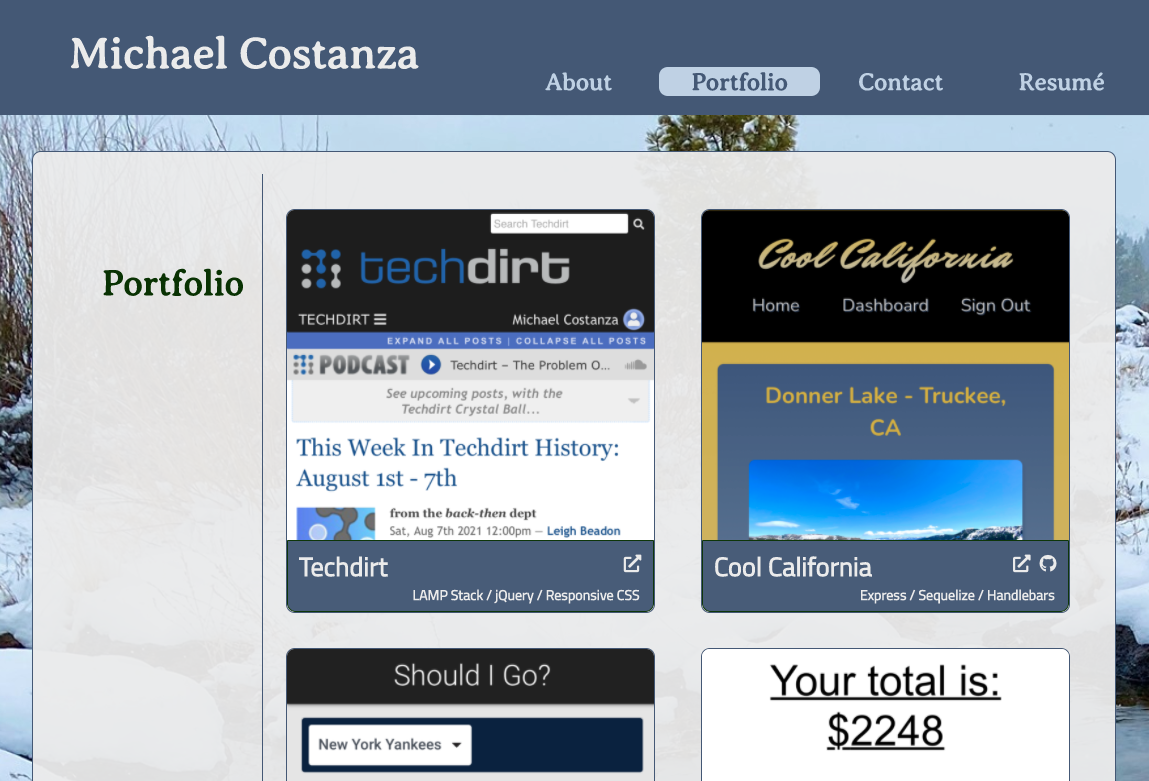
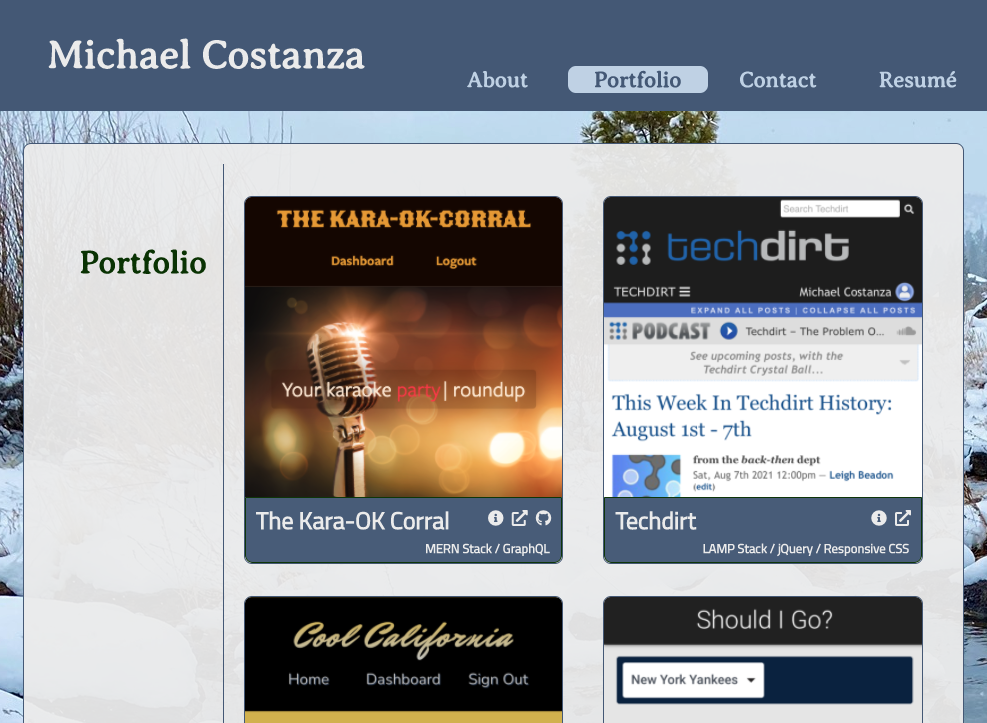
update screenshot; set width and max-width for small project screenshots

diff --git a/public/assets/index.css b/public/assets/index.css
@@ -171,9 +171,10 @@ section p {
   justify-content: stretch;
   margin: 0.5rem 0.5vw;
   min-width: 300px;
-  max-width: 90%;
+  max-width: 385px;
   overflow: hidden;
   text-decoration: none;
+  width: 90%;
 }
 
 .project .screenshot {
